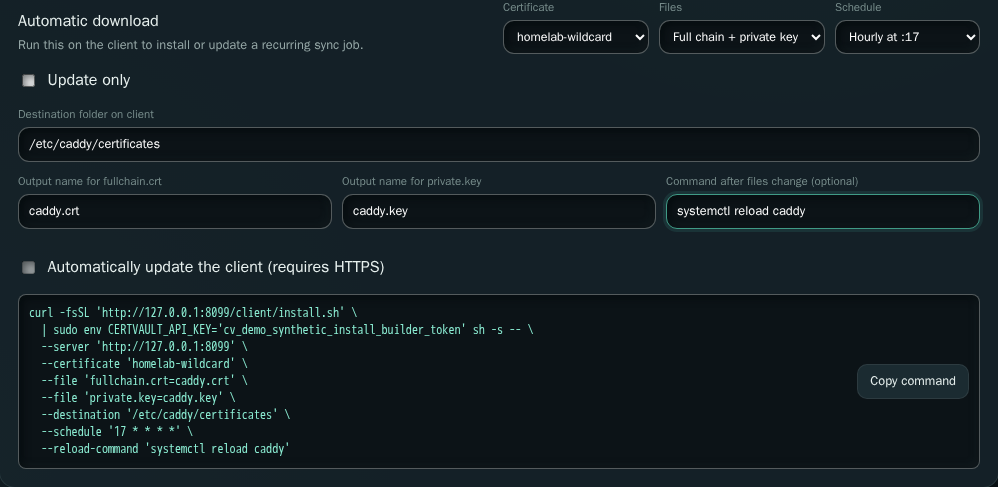
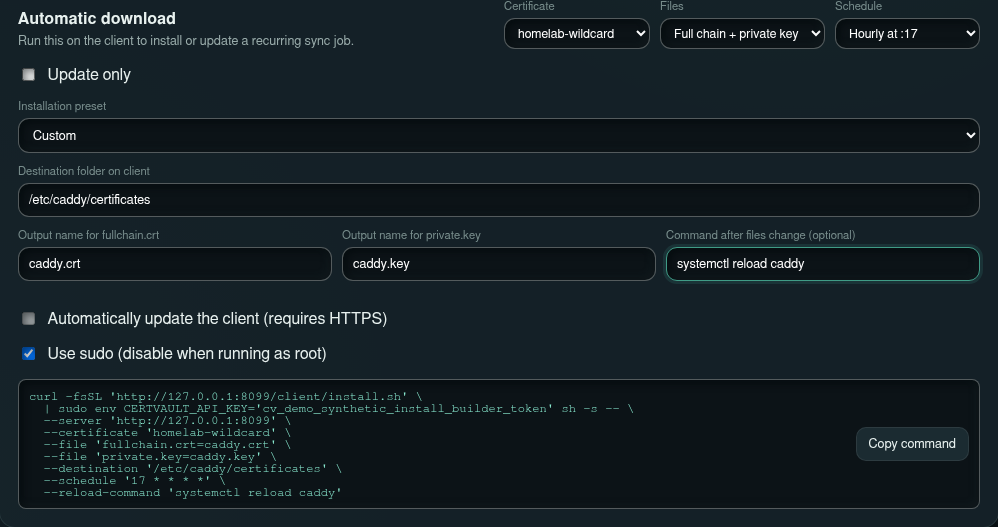
feat: add Proxmox installation presets

diff --git a/web/src/components/APIUsageHelper.tsx b/web/src/components/APIUsageHelper.tsx
@@ -27,6 +27,42 @@ const schedules = [
   { value: "17 3 * * 0", label: "Sunday at 03:17" },
 ] as const;
 
+const installationPresets = [
+  {
+    id: "proxmox-ve",
+    label: "Proxmox VE",
+    description:
+      "Run on each Proxmox VE node as root. These settings use the custom certificate files and restart pveproxy after files change. You can edit the settings below.",
+    files: "fullchain.crt,private.key",
+    destination: "/etc/pve/local",
+    outputNames: {
+      ...defaultOutputNames,
+      "fullchain.crt": "pveproxy-ssl.pem",
+      "private.key": "pveproxy-ssl.key",
+    },
+    schedule: schedules[0].value,
+    reloadCommand: "systemctl restart pveproxy",
+    useSudo: false,
+  },
+  {
+    id: "proxmox-backup-server",
+    label: "Proxmox Backup Server",
+    description:
+      "Run on the backup server as root. The command sets root:backup ownership and mode 0640 before reloading proxmox-backup-proxy. Keep the paths in the command aligned with any destination or filename edits. Clients that pin the certificate fingerprint need their fingerprint updated when the certificate changes.",
+    files: "fullchain.crt,private.key",
+    destination: "/etc/proxmox-backup",
+    outputNames: {
+      ...defaultOutputNames,
+      "fullchain.crt": "proxy.pem",
+      "private.key": "proxy.key",
+    },
+    schedule: schedules[0].value,
+    reloadCommand:
+      "chown root:backup /etc/proxmox-backup/proxy.pem /etc/proxmox-backup/proxy.key && chmod 640 /etc/proxmox-backup/proxy.pem /etc/proxmox-backup/proxy.key && systemctl reload proxmox-backup-proxy",
+    useSudo: false,
+  },
+] as const;
+
 type APIUsageHelperProps = {
   certificates: Certificate[];
   scopes: string[];
@@ -62,6 +98,9 @@ export function APIUsageHelper({
   const [schedule, setSchedule] = useState<string>(schedules[0].value);
   const [copied, setCopied] = useState(false);
   const [updateOnly, setUpdateOnly] = useState(false);
+  const [preset, setPreset] = useState("");
+  const selectedPreset = installationPresets.find((item) => item.id === preset);
+  const [useSudo, setUseSudo] = useState(true);
   const canInstall = certificates.length > 0 && availableFileOptions.length > 0;
   const copyFeedbackTimeout = useRef<number | null>(null);
 
@@ -79,14 +118,12 @@ export function APIUsageHelper({
     if (updateOnly) {
       return [
         `curl -fsSL ${shellQuote(installer)}`,
-        "| sudo sh -s --",
+        `| ${useSudo ? "sudo " : ""}sh -s --`,
         "--update-client-only",
         `--server ${shellQuote(window.location.origin)}`,
       ].join(" \\\n  ");
     }
-    const executor = token
-      ? `sudo env CERTVAULT_API_KEY=${shellQuote(token)} sh`
-      : "sudo sh";
+    const executor = `${useSudo ? "sudo " : ""}${token ? `env CERTVAULT_API_KEY=${shellQuote(token)} ` : ""}sh`;
     const fileArguments = files
       .split(",")
       .filter(Boolean)
@@ -119,7 +156,20 @@ export function APIUsageHelper({
     schedule,
     token,
     updateOnly,
+    useSudo,
   ]);
+
+  function selectPreset(id: string) {
+    const selected = installationPresets.find((item) => item.id === id);
+    setPreset(id);
+    setFiles(selected?.files ?? availableFileOptions.at(0)?.value ?? "");
+    setDestination(selected?.destination ?? defaultDestination(certificate));
+    setOutputNames(selected?.outputNames ?? defaultOutputNames);
+    setSchedule(selected?.schedule ?? schedules[0].value);
+    setReloadCommand(selected?.reloadCommand ?? "");
+    setUseSudo(selected?.useSudo ?? true);
+    setCopied(false);
+  }
 
   function selectCertificate(nextCertificate: string) {
     const previousDefault = defaultDestination(certificate);
@@ -221,6 +271,29 @@ export function APIUsageHelper({
       {!updateOnly && (
         <>
           <label className="api-usage-output">
+            Installation preset
+            <select
+              value={preset}
+              onChange={(event) => selectPreset(event.target.value)}
+            >
+              <option value="">Custom</option>
+              {installationPresets.map((item) => (
+                <option
+                  key={item.id}
+                  value={item.id}
+                  disabled={
+                    !availableFileOptions.some(
+                      (option) => option.value === item.files,
+                    )
+                  }
+                >
+                  {item.label}
+                </option>
+              ))}
+            </select>
+          </label>
+          {selectedPreset && <p>{selectedPreset.description}</p>}
+          <label className="api-usage-output">
             Destination folder on client
             <input
               value={destination}
@@ -268,6 +341,14 @@ export function APIUsageHelper({
           </label>
         </>
       )}
+      <label className="api-usage-auto-update">
+        <input
+          type="checkbox"
+          checked={useSudo}
+          onChange={(event) => setUseSudo(event.target.checked)}
+        />
+        Use sudo (disable when running as root)
+      </label>
       <div className="api-command">
         <code>{command}</code>
         <button

diff --git a/e2e/ui.spec.ts b/e2e/ui.spec.ts
@@ -373,6 +373,50 @@ test("install command builder defaults, customization and copying", async ({
   );
   await screenshot(page, "installation-command-customized.png", helper);
 
+  await helper.getByLabel("Installation preset").selectOption("proxmox-ve");
+  await expect(command).toContainText(
+    "--file 'fullchain.crt=pveproxy-ssl.pem'",
+  );
+  await expect(command).toContainText("--file 'private.key=pveproxy-ssl.key'");
+  await expect(command).toContainText("--destination '/etc/pve/local'");
+  await expect(command).toContainText("--schedule '17 3 * * *'");
+  await expect(command).toContainText(
+    "--reload-command 'systemctl restart pveproxy'",
+  );
+  await expect(command).toContainText(
+    `| env CERTVAULT_API_KEY='${displayToken}' sh`,
+  );
+  await expect(command).not.toContainText("sudo");
+  await screenshot(page, "installation-command-proxmox.png", helper);
+  await page.setViewportSize({ width: 390, height: 844 });
+  await expect(helper.getByLabel("Installation preset")).toBeVisible();
+  expect(
+    await page.evaluate(() => document.documentElement.scrollWidth),
+  ).toBeLessThanOrEqual(390);
+  await page.setViewportSize({ width: 1400, height: 900 });
+  await helper.getByLabel("Installation preset").selectOption("");
+  await helper
+    .getByLabel("Installation preset")
+    .selectOption("proxmox-backup-server");
+  await expect(command).toContainText("--file 'fullchain.crt=proxy.pem'");
+  await expect(command).toContainText("--file 'private.key=proxy.key'");
+  await expect(command).toContainText("--destination '/etc/proxmox-backup'");
+  await expect(command).toContainText("--schedule '17 3 * * *'");
+  await expect(command).toContainText(
+    "--reload-command 'chown root:backup /etc/proxmox-backup/proxy.pem /etc/proxmox-backup/proxy.key && chmod 640 /etc/proxmox-backup/proxy.pem /etc/proxmox-backup/proxy.key && systemctl reload proxmox-backup-proxy'",
+  );
+  await expect(command).not.toContainText("sudo");
+  await screenshot(page, "installation-command-proxmox-backup.png", helper);
+  await page.setViewportSize({ width: 390, height: 844 });
+  expect(
+    await page.evaluate(() => document.documentElement.scrollWidth),
+  ).toBeLessThanOrEqual(390);
+  await page.setViewportSize({ width: 1400, height: 900 });
+  await helper.getByLabel("Installation preset").selectOption("");
+  await expect(command).toContainText("--file 'fullchain.crt'");
+  await expect(command).not.toContainText("--reload-command");
+  await expect(command).toContainText("sudo env");
+
   await context.grantPermissions(["clipboard-read", "clipboard-write"]);
   await expect(
     helper.getByLabel("Automatically update the client (requires HTTPS)"),
@@ -420,6 +464,8 @@ test("install command builder defaults, customization and copying", async ({
   await expect(command).not.toContainText("--schedule");
   await expect(command).not.toContainText("--reload-command");
   await expect(command).not.toContainText("CERTVAULT_API_KEY");
+  await helper.getByLabel("Use sudo (disable when running as root)").uncheck();
+  await expect(command).toContainText("| sh -s --");
   await expect(helper.getByRole("combobox")).toHaveCount(0);
   await helper
     .getByRole("checkbox", { name: "Update only", exact: true })

diff --git a/web/src/components/ConsoleLayout.css b/web/src/components/ConsoleLayout.css
@@ -177,7 +177,7 @@
 
 @media (max-width: 800px) {
   .shell {
-    grid-template-columns: 1fr;
+    grid-template-columns: minmax(0, 1fr);
     grid-template-rows: auto minmax(0, 1fr);
   }
 

diff --git a/web/src/components/APIUsageHelper.css b/web/src/components/APIUsageHelper.css
@@ -53,7 +53,8 @@
   font-size: 0.72rem;
 }
 
-.api-usage-output input {
+.api-usage-output input,
+.api-usage-output select {
   padding: 8px 10px;
   font-size: 0.8rem;
 }

diff --git a/README.md b/README.md
@@ -198,7 +198,9 @@ The API Keys page can also generate a command that installs an automatic downloa
 
 Expand **Install command** on the API Keys page at any time to build a client command. After creating a key, the builder opens and includes that key in the command. Otherwise it defaults to `--reuse-key`.
 
-To update the client scripts without remembering the original settings, check **Update only** in the builder. Its command uses `--update-client-only --server URL` and requires no API key or job options. Run it as the original installation user (the generated command uses `sudo`). It preserves all job wrappers, keys, cron schedules, destinations, file mappings, reload commands, and download validators, and does not run a sync. Installations with automatic updates also perform an immediate signed update check for that server using their existing pinned public key. Custom installations should retain their `CERTVAULT_CLIENT_CONFIG_DIR` and `CERTVAULT_CLIENT_SCRIPT_DIR` overrides.
+Select the **Proxmox VE** installation preset to download the full chain as `pveproxy-ssl.pem` and the private key as `pveproxy-ssl.key` into `/etc/pve/local`, sync daily at 03:17, and run `systemctl restart pveproxy` after files change. Run the command on each node as root. The preset disables **Use sudo**; enable it when running through a user with sudo access. Preset values remain editable, and selecting **Custom** restores the default deployment settings. Proxmox VE requires certificate and private-key download permissions.
+
+To update the client scripts without remembering the original settings, check **Update only** in the builder. Its command uses `--update-client-only --server URL` and requires no API key or job options. Run it as the original installation user (disable **Use sudo** if already running as root). It preserves all job wrappers, keys, cron schedules, destinations, file mappings, reload commands, and download validators, and does not run a sync. Installations with automatic updates also perform an immediate signed update check for that server using their existing pinned public key. Custom installations should retain their `CERTVAULT_CLIENT_CONFIG_DIR` and `CERTVAULT_CLIENT_SCRIPT_DIR` overrides.
 
 When reusing a saved key, run the command on the original client as the same user, selecting the same certificate and file set. The installer reads the saved local token and redeploys the job with the chosen destination, output names, schedule, and reload command. No token is included in the generated command. Reuse fails if the matching token file is missing; it does not prompt for a replacement key.
 
